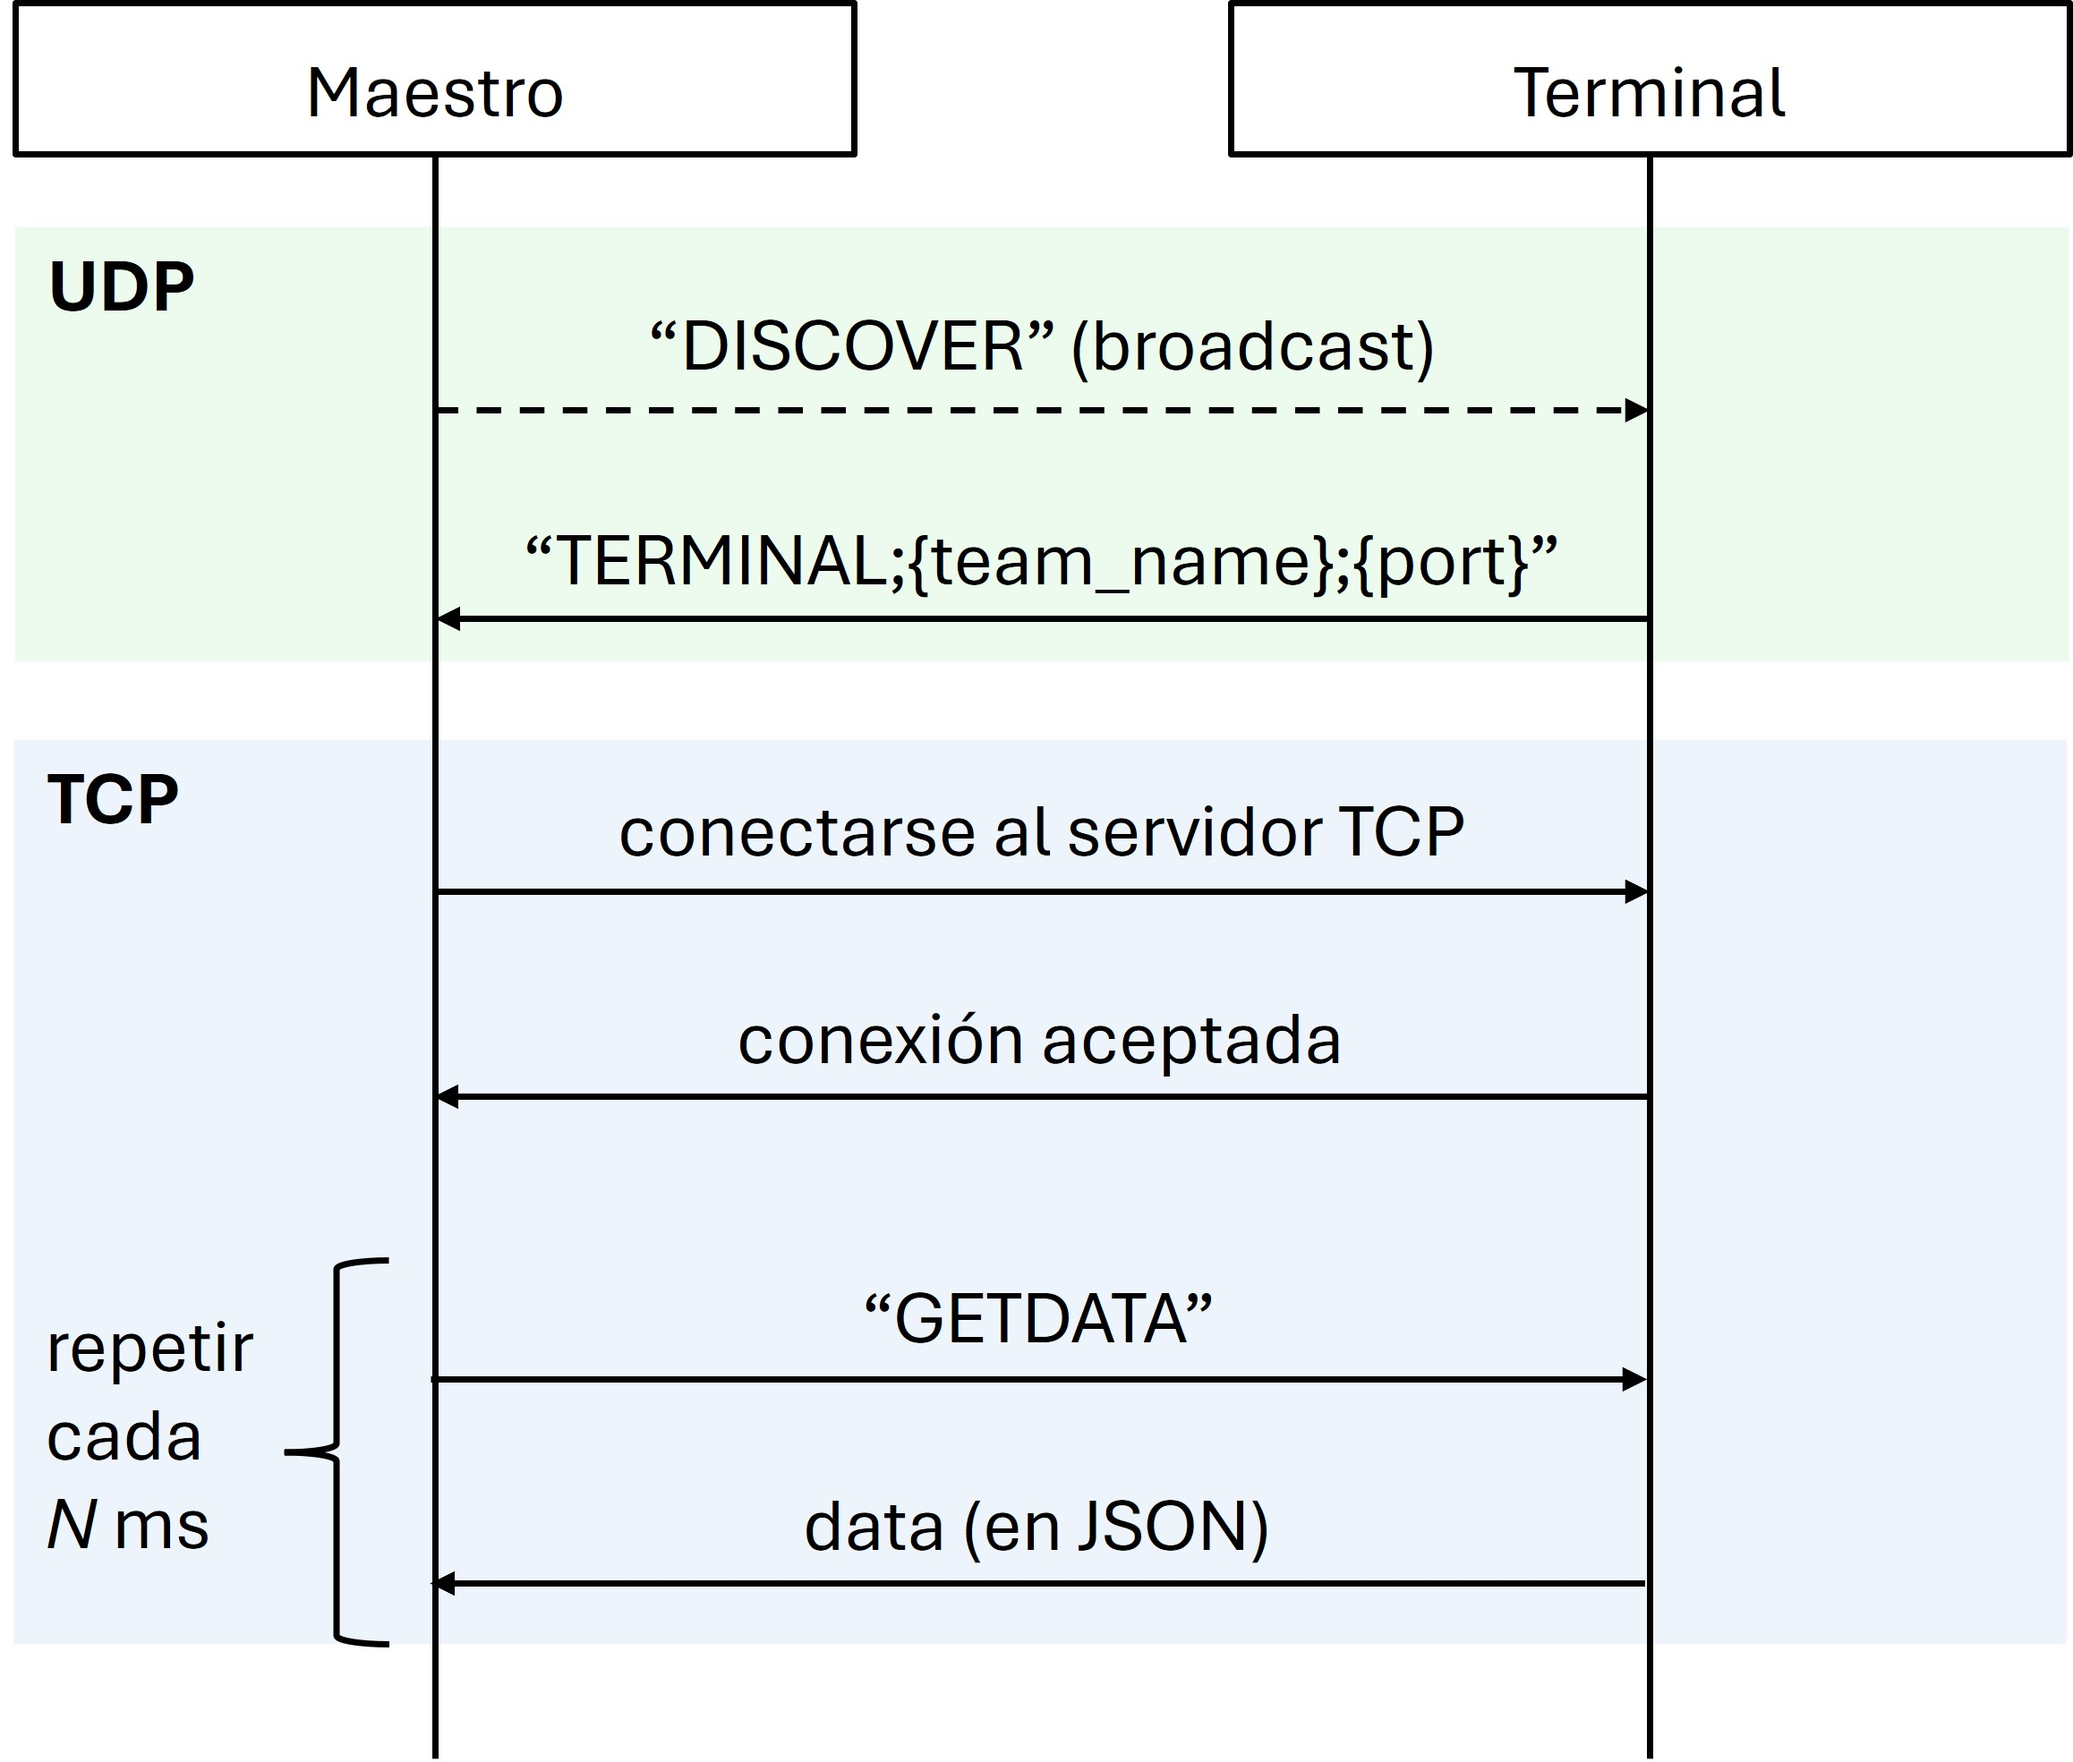
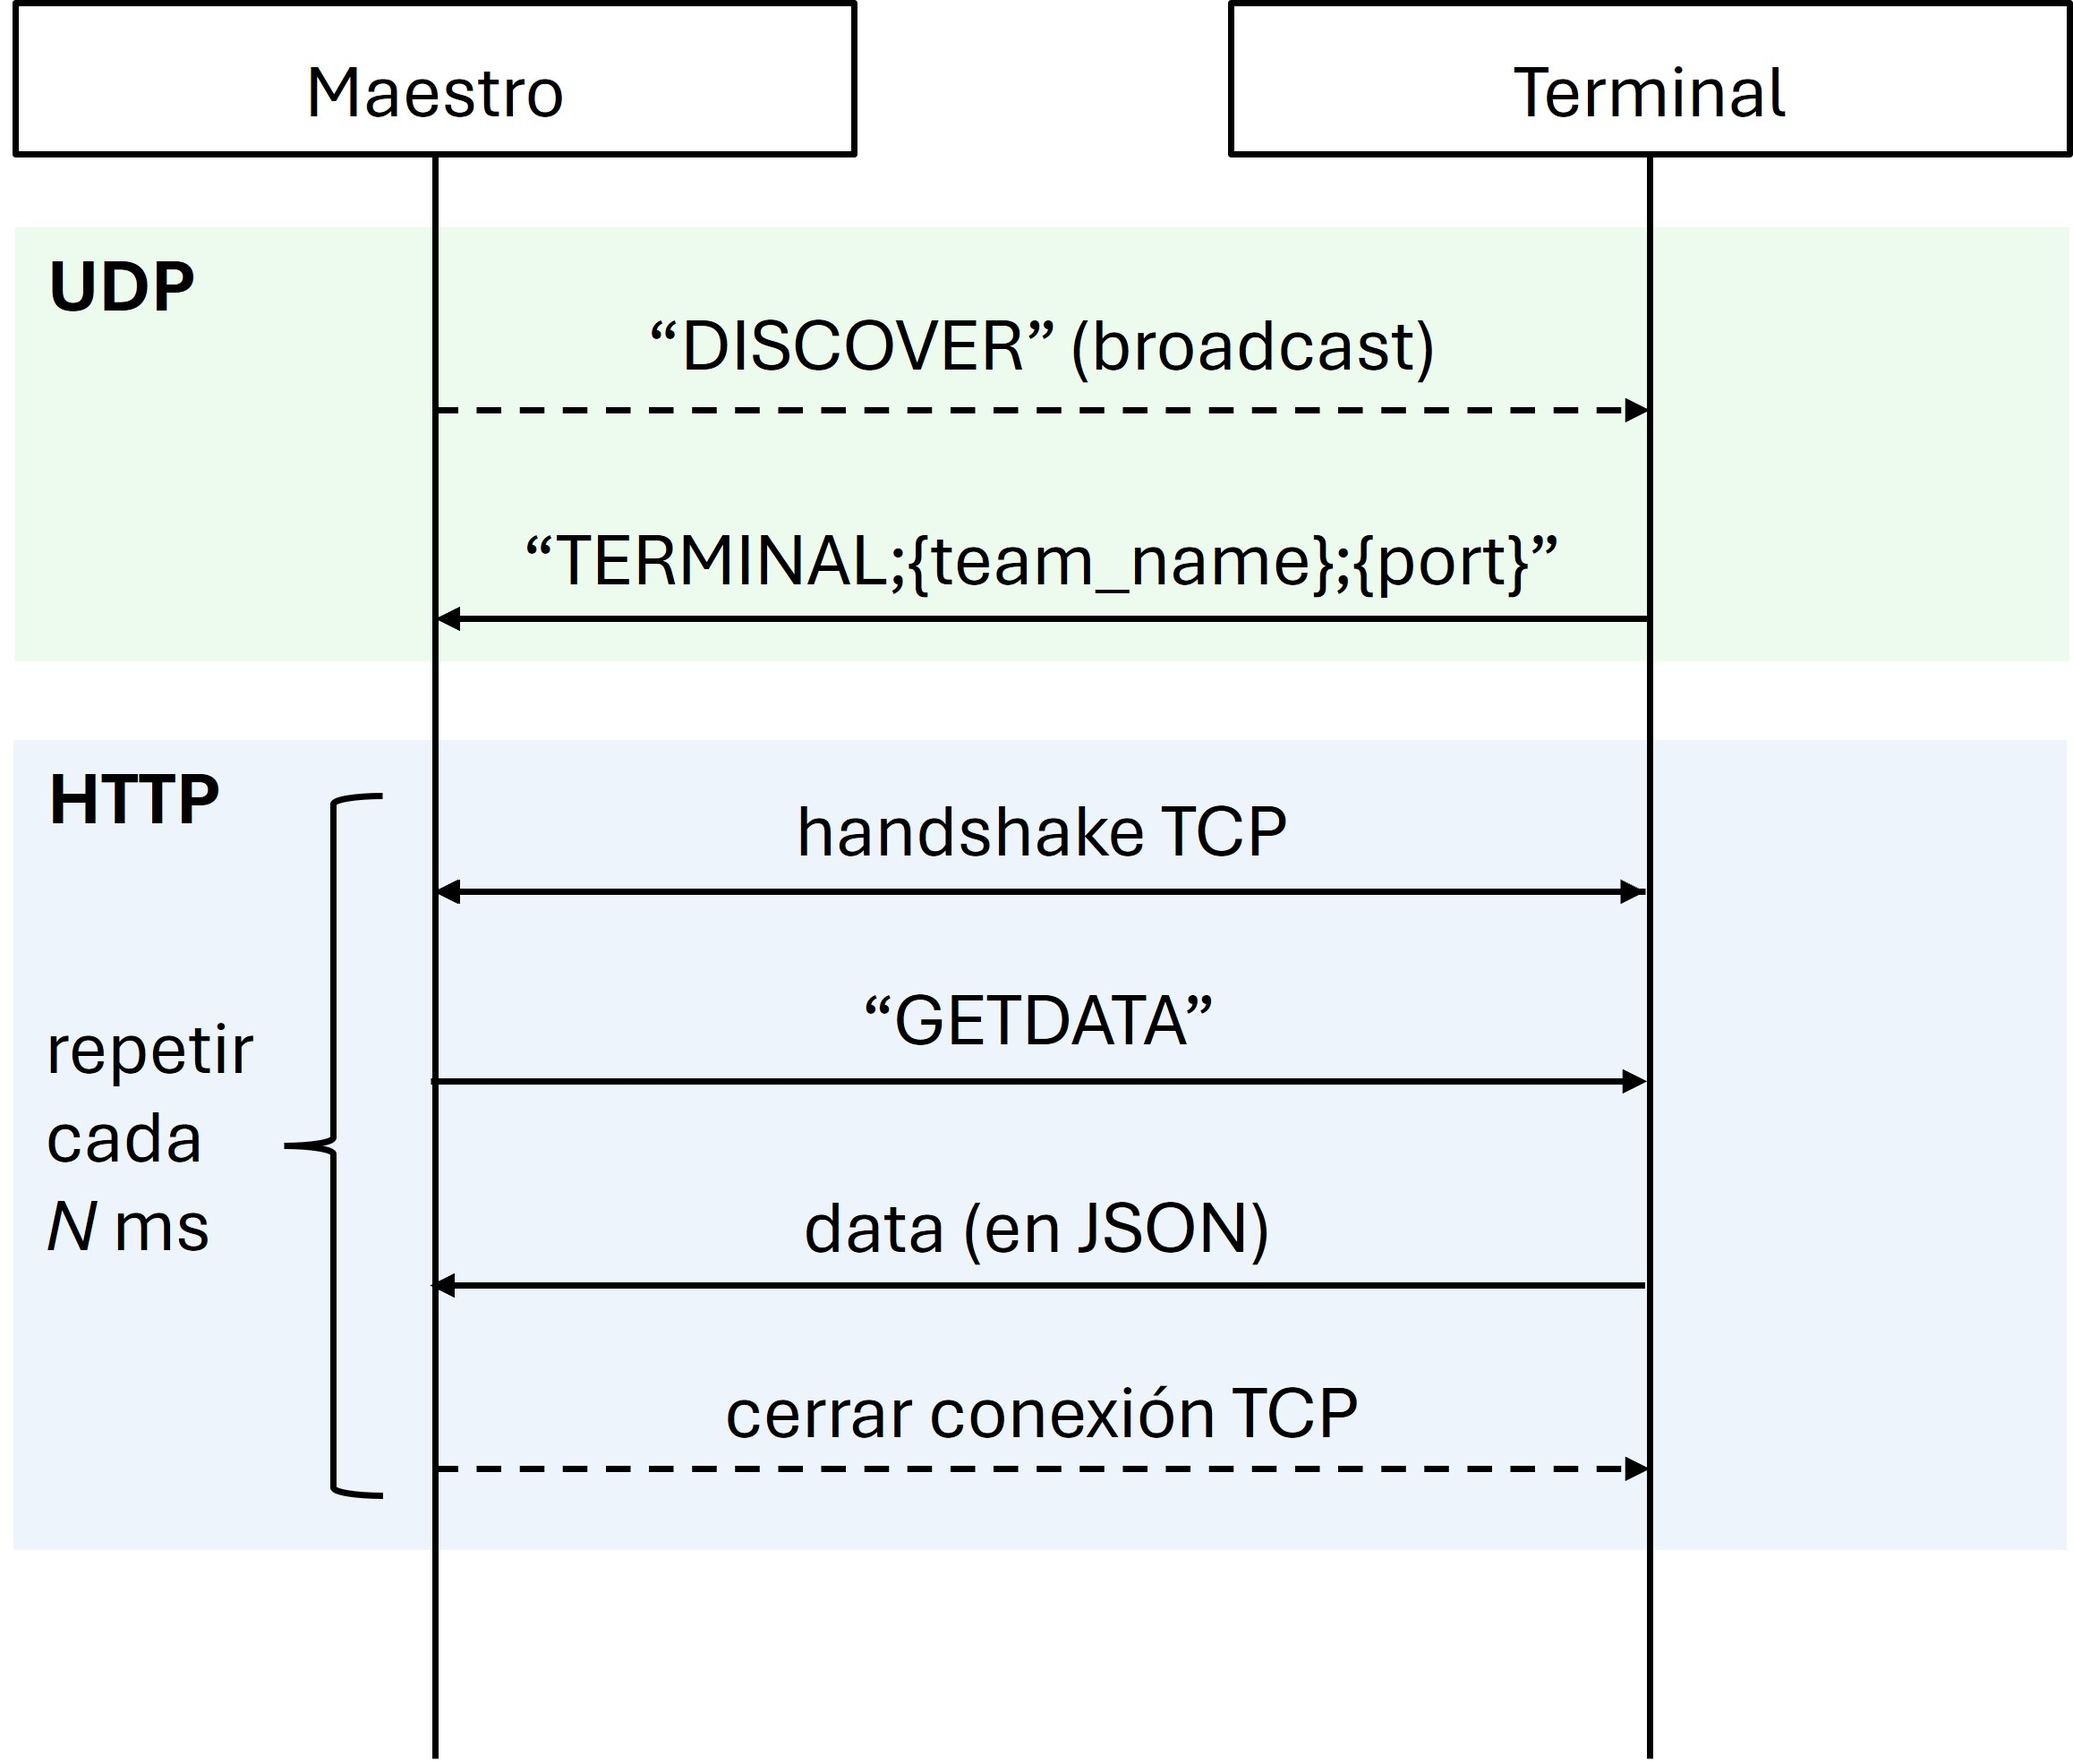
documentado el cambio a polling HTTP

diff --git a/terminal/micro_monitoring.py b/terminal/micro_monitoring.py
@@ -16,14 +16,12 @@ async def connect_to_wifi(ssid: str, password: str, max_retries=5):
     print(f"MAC: {mac_address}")
 
     retries = 0
-    print(f"Conectando a WiFi...", end="")
+    print(f"Conectando a WiFi...")
     while not wlan.isconnected() and retries < max_retries:
-        print(".", end="")
         wlan.connect(ssid, password)
         retries += 1
         await asyncio.sleep(1)  # Esperar antes del próximo intento
 
-    print()
     if wlan.isconnected():
         return wlan.ifconfig()
     else:

diff --git a/README.md b/README.md
@@ -10,10 +10,10 @@ El código MicroPython en `maestro/` sirve para el único microcontrolador maest
 
 Se utiliza la librería `asyncio` para la ejecución concurrente de:
 
-- En el maestro: el servidor HTTP, el descubrimiento de la red, y la conexión con cada terminal.
-- En cada terminal: la escucha de mensajes de descubrimiento, el servidor TCP, y el código específico del equipo.
+- En el maestro: el servidor HTTP, el descubrimiento de la red, y el polling a los terminales.
+- En cada terminal: la escucha de mensajes de descubrimiento, el servidor HTTP para responder a los polls del maestro, y el código específico del equipo.
 
-Nota: los archivos `/terminal/micro_monitoring.py` y `/terminal/circuit_monitoring.py` están orientados específicamente para MicroPython y CircuitPython respectivamente. Cumplen la misma funcionalidad, aunque equipo debe usar el que corresponde al runtime que utiliza.
+Nota: los archivos `/terminal/micro_monitoring.py` y `/terminal/circuit_monitoring.py` están orientados específicamente para MicroPython y CircuitPython respectivamente. Cumplen la misma funcionalidad, aunque cada equipo debe usar el que corresponde al runtime que decidieron utilizar.
 
 ## Conexión a WiFi
 
@@ -23,19 +23,21 @@ Es necesario que estén conectados a la red local para poder comunicarse con el 
 
 ## Descubrimiento de la Red
 
-El maestro envía periódicamente un mensaje de broadcast UDP en la red local. Si un terminal detecta uno de estos broadcasts, le responde al maestro con un UDP dirigido que incluye el nombre del equipo, la dirección IP, y el puerto, del servidor TCP del terminal. Con esta información, el maestro se conecta, como cliente, al servidor TCP del terminal.
+El maestro envía periódicamente un mensaje de broadcast UDP en la red local. Si un terminal detecta uno de estos broadcasts, responde con un UDP dirigido que incluye el nombre del equipo, su dirección IP, y el puerto TCP de su servidor HTTP. El maestro guarda esta información para luego realizar las peticiones HTTP al terminal.
 
 ![Interacción entre Maestro y Terminal](docs/interacción-maestro-terminal.jpg)
 
-Si el maestro se desconecta, el terminal vuelve al "modo descubrimiento" y a esperar mensajes de broadcasts nuevamente.
+Si el terminal no recibe peticiones HTTP del maestro luego de cierto tiempo, el terminal vuelve al "modo descubrimiento" a esperar un nuevo mensaje de broadcast para nuevamente enviar su dirección y puerto del servidor HTTTP al maestro. Esto permite que si el maestro falla o pierde este terminal, lo puede volver a encontrar.
 
 ## Polling del Maestro a los Terminales
 
-El maestro tiene en todo momento un listado de los terminales que existen y otro con los que están actualmente conectados. La conexión TCP con cada terminal permite periódicamente muestrear los datos (en formato JSON) que cada equipo considera representativo de su terminal. Estos datos de todos los terminales son concentrados en una sola variable global del maestro.
+El maestro tiene en todo momento un listado de los nueve terminales posibles que existen. El polling consiste en periódicamente iterar sobre esa lista y, por cada terminal cuya dirección IP y puerto del servidor HTTP se posee gracias al descubrimiento de la red, enviar una petición HTTP. Cada terminal responde con los datos (en formato JSON) que su equipo considera representativos.
+
+Los datos obtenidos de todos los terminales son concentrados en el maestro en una sola variable global.
 
 ## Monitoreo Mediante Dashboard Web
 
-De manera concurrente a la comunicación con los terminales, el maestro también ejecuta un servidor HTTP/1.1 que ante una petición `GET /` devuelve una página web definida en `/maestro/www`. Este dashboard web tiene un código JavaScript en `/maestro/www/script.js` que cada cierto intervalo de tiempo hace una petición `GET /data` al servidor, actualizando la información que luego presenta en el navegador. El servidor del maestro devuelve en formato JSON un objeto con los datos más recientes de cada terminal en la red.
+De manera concurrente a la comunicación con los terminales, el maestro también ejecuta un servidor HTTP/1.1 que ante una petición `GET /` devuelve una página web definida en `/maestro/www`. Este dashboard web tiene un código JavaScript en `/maestro/www/script.js` que cada cierto intervalo de tiempo hace una petición `GET /data` al maestro, quien devuelve en formato JSON los datos más recientes de cada terminal en la red. Esto actualiza los datos mostrados en el navegador.
 
 La comunicación entre monitor web, maestro, y terminales, es la siguiente:
 
